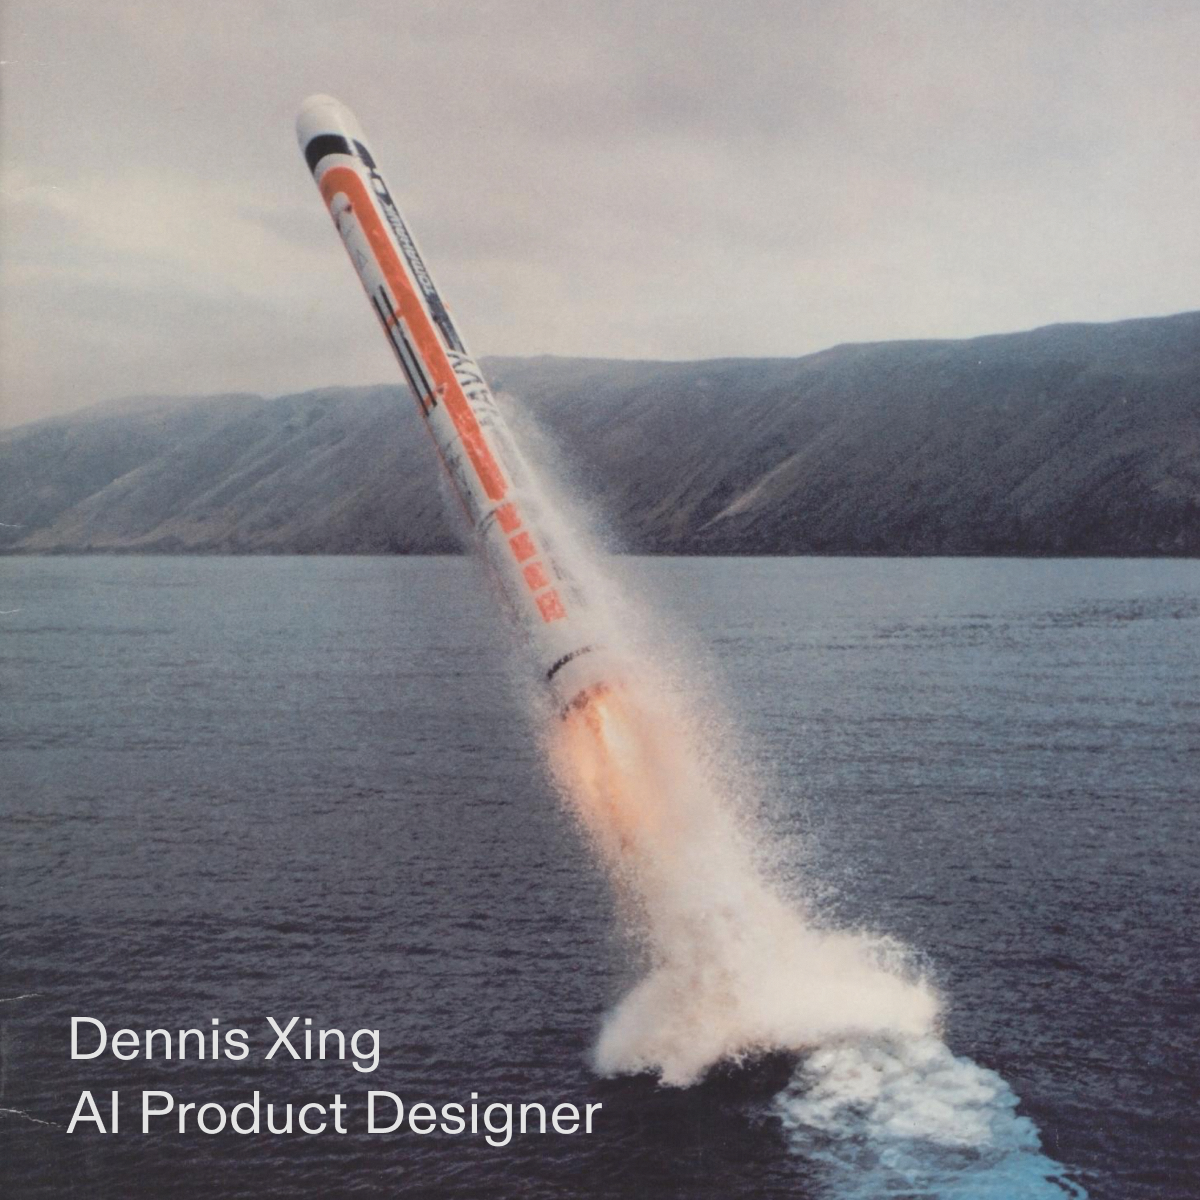
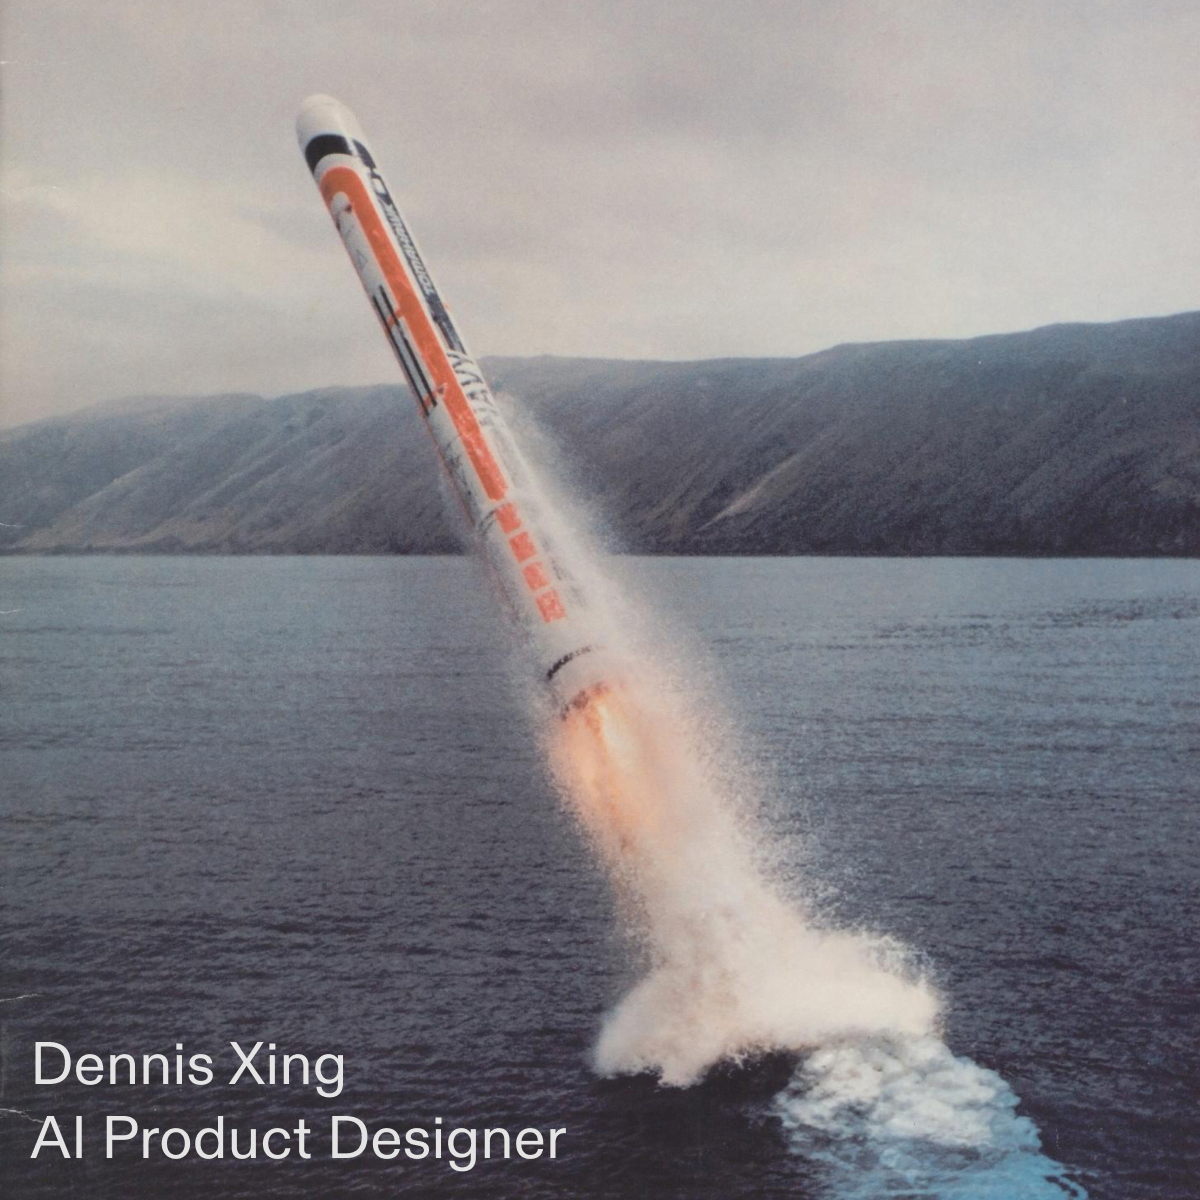
Add dedicated Twitter preview asset

Changed region(s): [[0.0308, 0.8325, 0.4933, 0.9867]]

diff --git a/apps/web/src/app/layout.tsx b/apps/web/src/app/layout.tsx
@@ -15,7 +15,10 @@ import { Toaster } from "~/components/ui/sonner";
 const siteTitle = "Dennis Xing";
 const siteDescription =
   "Product designer based in San Francisco. Previously at Nell, AGI, Krea, and Skydio.";
-const openGraphImageUrl = "/og/dennis-agent-portfolio.png?v=20260816-square";
+const openGraphImageUrl =
+  "/og/dennis-agent-portfolio.png?v=20260817-figma-og";
+const twitterImageUrl =
+  "/og/dennis-agent-portfolio-twitter.png?v=20260817-figma-twitter";
 
 export const metadata: Metadata = {
   metadataBase: SITE_URL,
@@ -50,7 +53,14 @@ export const metadata: Metadata = {
     card: "summary_large_image",
     title: siteTitle,
     description: siteDescription,
-    images: [openGraphImageUrl],
+    images: [
+      {
+        url: twitterImageUrl,
+        width: 1200,
+        height: 600,
+        alt: "Dennis Xing — AI Product Designer.",
+      },
+    ],
   },
 };
 
